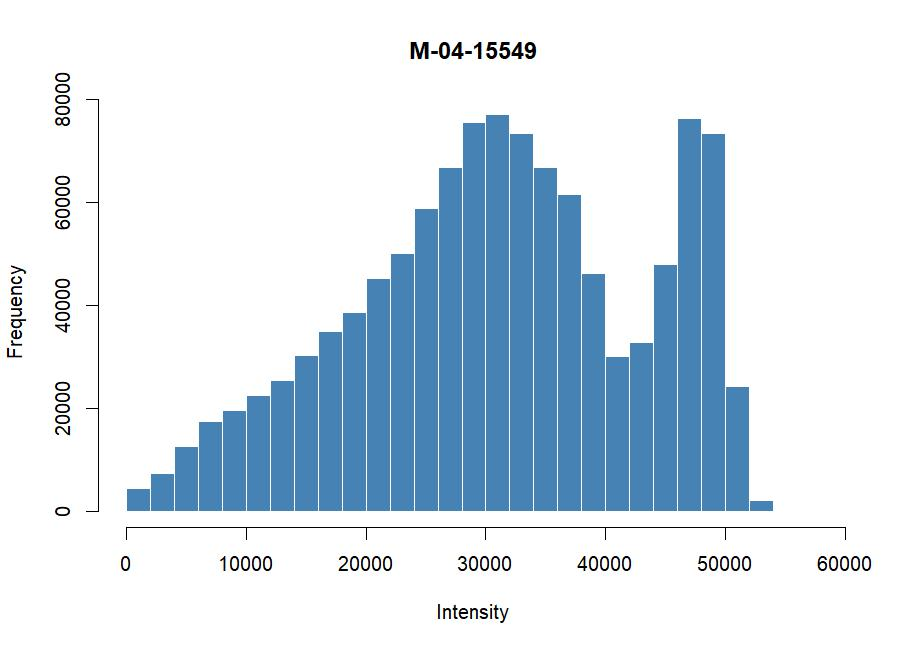
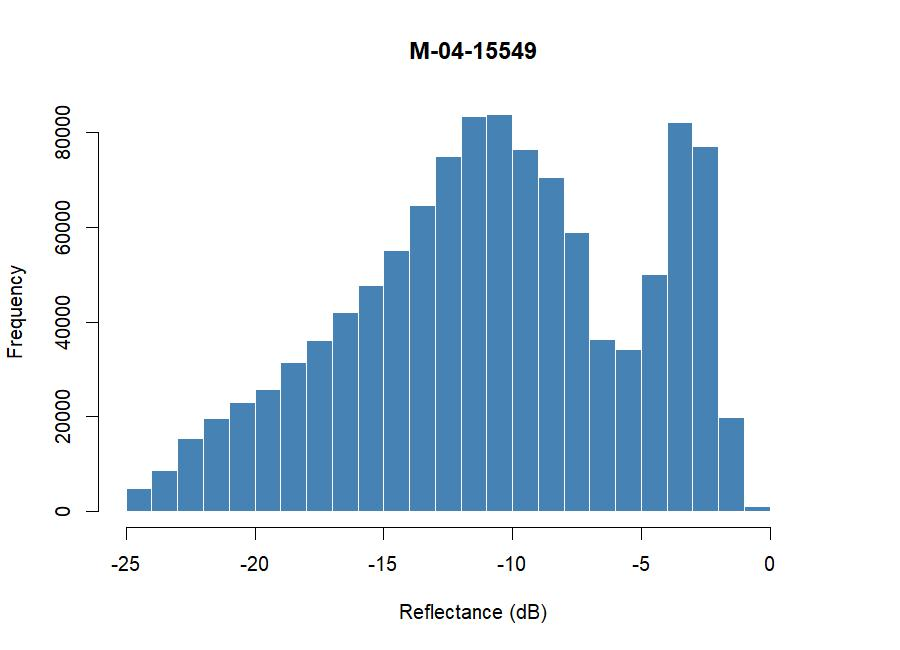
Show the raw-scan example histogram in dB reflectance instead of raw intensity
hist(crown$Reflectance) now matches the same -20 to 0 dB scale that
get_histogram() bins on, instead of plotting the uncalibrated raw
Intensity column. Regenerates the M-04-15549 example plot to match.

diff --git a/README.md b/README.md
@@ -75,7 +75,7 @@ plot(las, color = "Intensity")   # colored by reflectance intensity
 crown <- remove_stem(las)        # strip out the trunk, keep just the crown
 crown <- add_reflectance(crown)  # fill in any missing reflectance values
 
-hist(crown$Intensity)            # just a plain base-R histogram of the crown's points
+hist(crown$Reflectance)          # just a plain base-R histogram, in dB, of the crown's points
 
 hist_df <- get_histogram(crown)  # same idea, packaged as a one-row table
 
@@ -97,7 +97,7 @@ Output:
 ...
 ```
 
-![Histogram of crown-only intensity values for tree M-04-15549](media/M-04-15549_crown_intensity_hist.jpg)
+![Histogram of crown-only reflectance values (dB) for tree M-04-15549](media/M-04-15549_crown_intensity_hist.jpg)
 
 Each tree's histogram becomes one row of predictor features once reshaped wide (one column per intensity bin), joined to that tree's `% SCORCH` value from the field survey.
 
